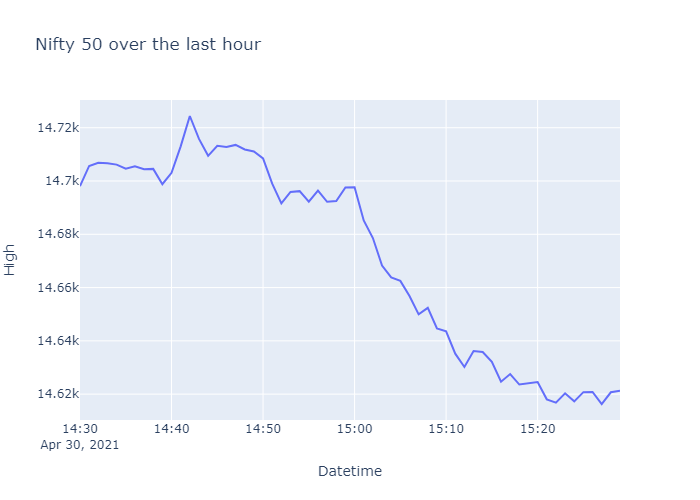
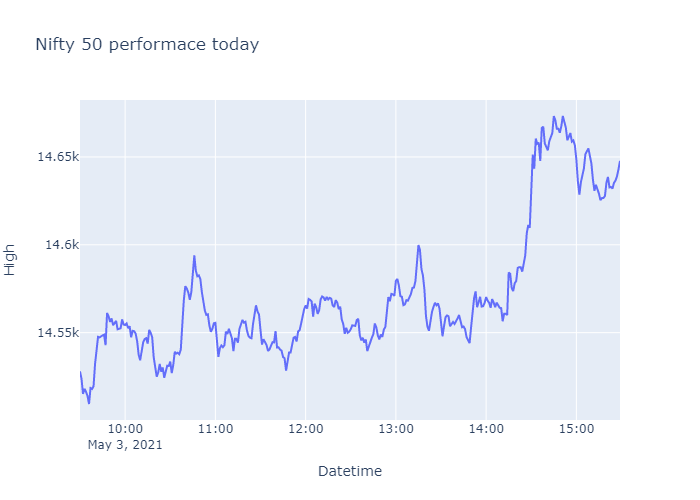
configure bot - daily nifty update

diff --git a/App.py b/App.py
@@ -5,23 +5,26 @@ import plotly.graph_objects as go
 import yfinance as yf
 
 
-def test_function(company_name):
+def update_daily_company(company_name):
     df = yf.download(f'{company_name.upper()}.BO', period='1d', progress=False)
     return df
 
 
-async def hourly_updates(company_name='WIPRO'):
+async def hourly_updates(company_name='WIPRO', duration='1h'):
     ticker = yf.Ticker(f'{company_name}.BO')
-    df = ticker.history(period="1h", interval='1m')
-    # df = yf.download(f'{company_name.upper()}.BO',
-    #                  period='1h', interval='1m', progress=False,)
+    interval = '1d'
+    x_name = 'Date'
+    if duration[-1] == 'h' or duration == '1d':
+        interval = '1m'
+        x_name = 'Datetime'
+    df = ticker.history(period=duration.lower(), interval=interval)
     # Reseting the index
     df = df.reset_index()
     # Converting the datatype to float
     for i in ['Open', 'High', 'Close', 'Low']:
         df[i] = df[i].astype('float64')
-    fig = px.line(df, x='Datetime', y='High',
-                  title=f'{company_name} Share Prices in the last hour')
+    fig = px.line(df, x=x_name, y='High',
+                  title=f'{company_name} Share Prices over last {duration}')
     fig.write_image(f"images/{company_name}.png")
 
 
@@ -38,38 +41,15 @@ async def hourly_nifty():
     fig.write_image("images/nifty.png")
 
 
-
-
-# tsla_df = ticker.history(period="1d")
-
-# print(tsla_df)
-
-
-# tsla_df['Close'].plot(title="TSLA's stock price")
-
-# fig = px.line(tsla_df, x='Date', y='High',
-#               title='Apple Share Prices over time (2014)')
-
-# fig.write_image("images/fig1.png")
-
-# fig.show()
-
-
-# fig = go.Figure([go.Scatter(x=tsla_df['Date'], y=tsla_df['High'])])
-# fig.update_xaxes(
-#     rangeslider_visible=True,
-#     rangeselector=dict(
-#         buttons=list([
-#             dict(count=1, label="1m", step="month",
-#                  stepmode="backward"),
-#             dict(count=6, label="6m", step="month",
-#                  stepmode="backward"),
-#             dict(count=1, label="YTD", step="year",
-#                  stepmode="todate"),
-#             dict(count=1, label="1y", step="year",
-#                  stepmode="backward"),
-#             dict(step="all")
-#         ])
-#     )
-# )
-# fig.show()
+async def daily_nifty():
+    ticker = yf.Ticker('^NSEI')
+    df = ticker.history(period="6h", interval='1m')
+    # Reseting the index
+    df = df.reset_index()
+    # Converting the datatype to float
+    for i in ['Open', 'High', 'Close', 'Low']:
+        df[i] = df[i].astype('float64')
+    fig = px.line(df, x='Datetime', y='High',
+                  title='Nifty 50 performace today')
+    fig.write_image("images/nifty.png")
+    return (round(df['Open'][0], 2), round(df['Close'][358], 2))

diff --git a/bot.py b/bot.py
@@ -3,7 +3,9 @@ import time
 import discord
 import asyncio
 from dotenv import load_dotenv
-from discord.ext import commands, tasks
+from discord.ext import commands
+from apscheduler.schedulers.asyncio import AsyncIOScheduler
+from apscheduler.triggers.cron import CronTrigger
 import App
 
 load_dotenv()
@@ -19,6 +21,17 @@ async def on_ready():
     print(
         f'{bot.user.name} is connected successfully!'
     )
+    scheduler = AsyncIOScheduler()
+
+    # Scheduled for hourly nifty updates from 10:30 - 14:30
+    scheduler.add_job(update_hour_nifty, CronTrigger(
+        day_of_week="0-4", hour="10-15", minute="30"))
+
+    #Scheduled for daily nifty update at 15:35
+    scheduler.add_job(update_daily_nifty, CronTrigger(
+        day_of_week="0-4", hour="15", minute="35"))
+
+    scheduler.start()
 
 
 @bot.event
@@ -28,35 +41,36 @@ async def on_member_join(member):
 
 @bot.command(name='eod', help='END OF DAY DATA FOR REQUESTED COMPANY')
 async def update(ctx, company_name='RELIANCE.BO'):
-    data = App.test_function(company_name)
+    data = App.update_daily_company(company_name)
     response = f'{company_name.upper()} EOD Data -\n - '
     response += '\n - '.join(
         [f'{field}: {round(data[field][0],2)}' for field in data])
     await ctx.send(response)
 
 
-@bot.command(name='hour', help='HOURLY UPDATES OF THE REQUESTED COMPANY')
-async def update_hour(ctx, company_name='^NSEI'):
-    await App.hourly_updates(company_name)
+@bot.command(name='price', help='UPDATES OF THE REQUESTED COMPANY')
+async def update_hour(ctx, company_name='^NSEI', duration='1h'):
+    await App.hourly_updates(company_name, duration)
     with open(f'images/{company_name}.png', "rb") as fh:
         f = discord.File(fh, filename=f'images/{company_name}.png')
     await ctx.send(file=f)
 
 
-@tasks.loop(seconds=3)
 async def update_hour_nifty():
     await App.hourly_nifty()
     with open('images/nifty.png', "rb") as fh:
         f = discord.File(fh, filename='images/nifty.png')
     channel = bot.get_channel(838120561993056290)
-    print(channel)
     await channel.send(file=f)
 
 
-@update_hour_nifty.before_loop
-async def before():
-    await bot.wait_until_ready()
+async def update_daily_nifty():
+    result = await App.daily_nifty()
+    with open('images/nifty.png', "rb") as fh:
+        f = discord.File(fh, filename='images/nifty.png')
+    channel = bot.get_channel(838120561993056290)
+    await channel.send(file=f)
+    await channel.send(f'Nifty 50 \n -Open = {result[0]} \n -Close={result[1]} \n -Change={round(result[1] - result[0],2)}')
 
-update_hour_nifty.start()
 
 bot.run(TOKEN)
